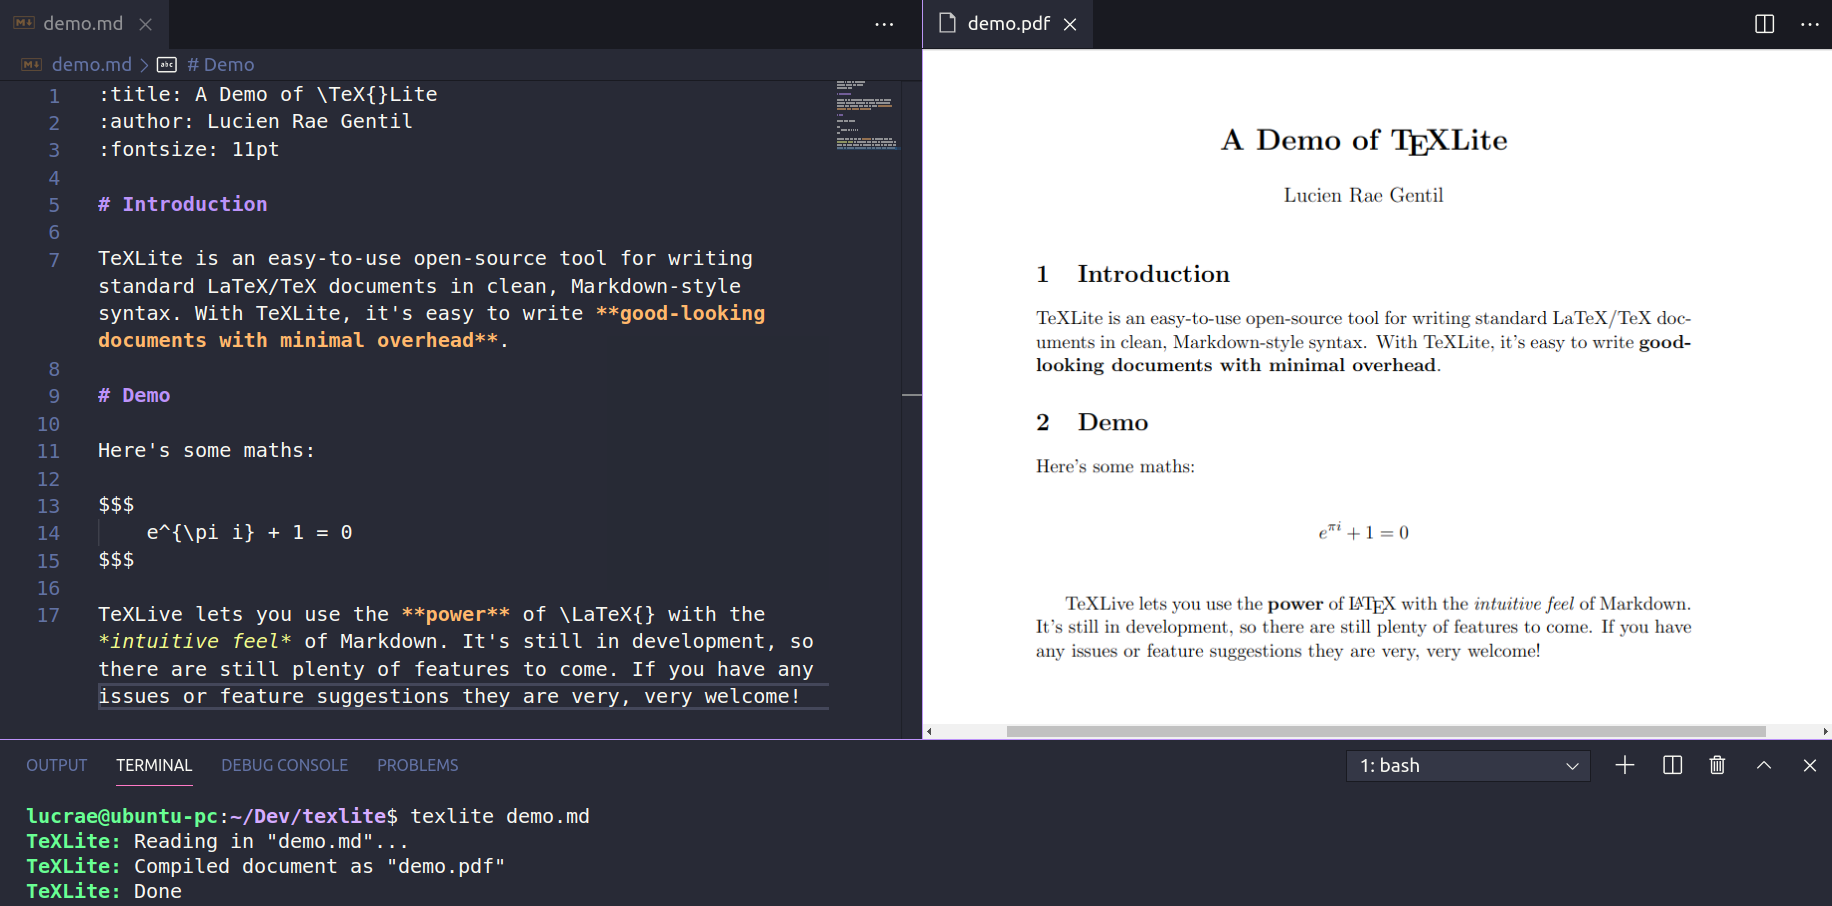
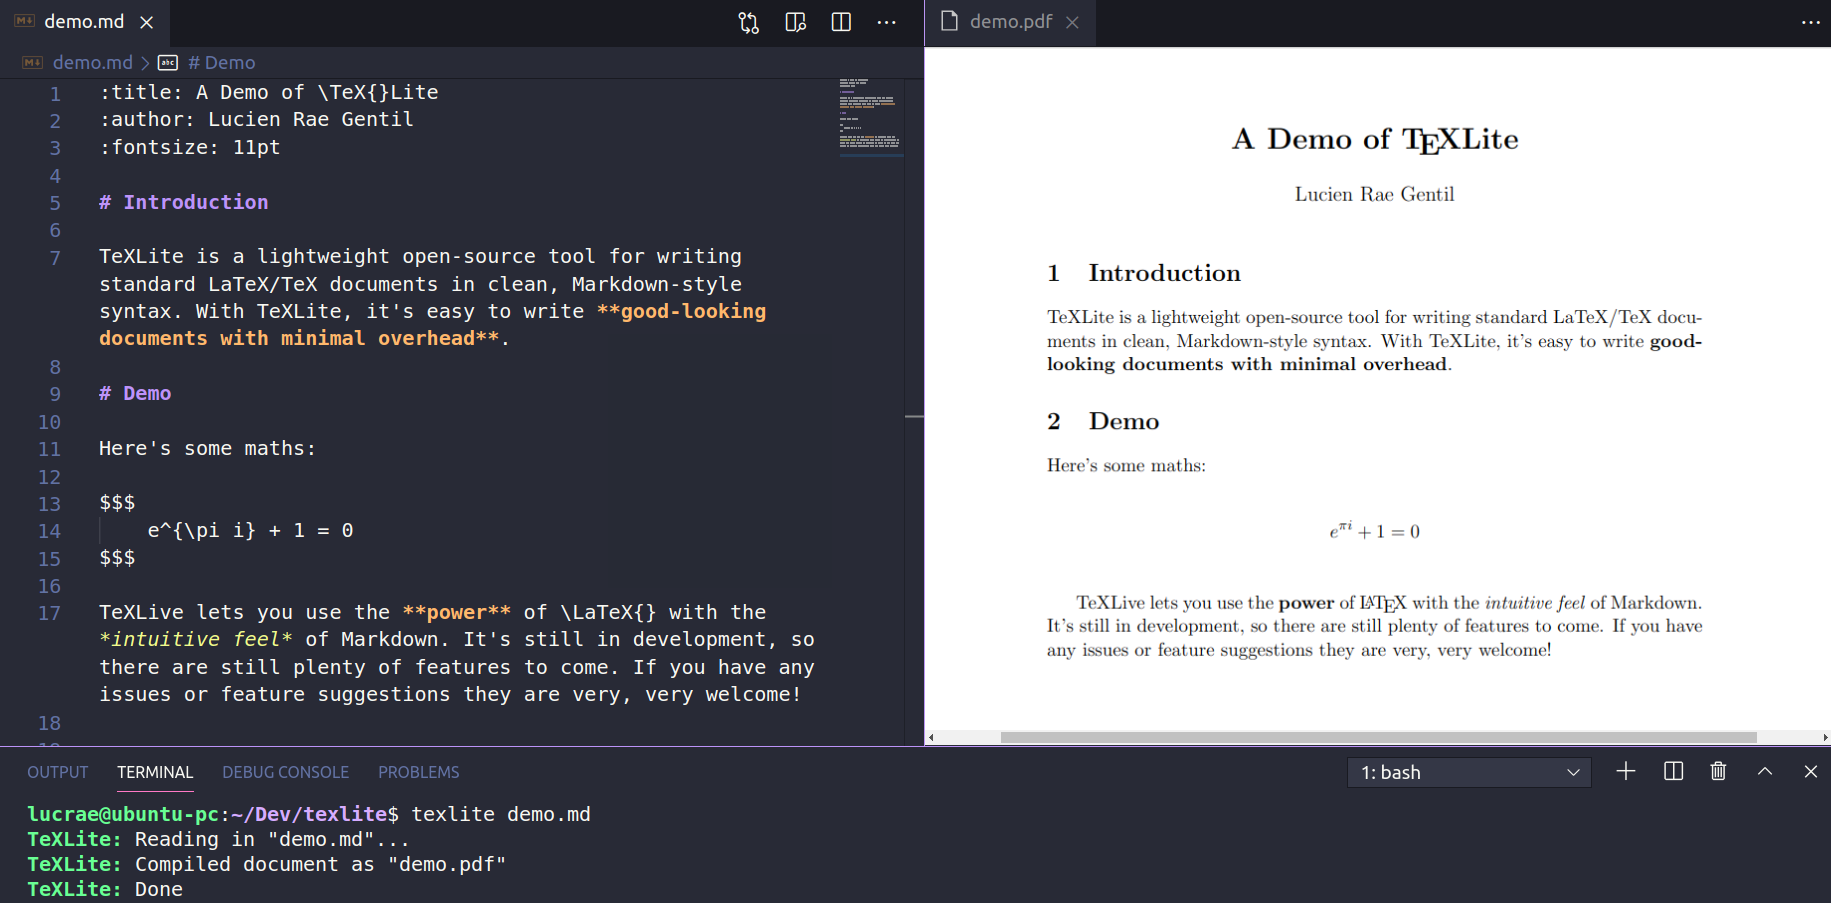
Change 'easy-to-use' to 'lightweight' in description

diff --git a/texlite/_version.py b/texlite/_version.py
@@ -1,5 +1,5 @@
 __version__ = '1.0.4'
 description = (
-    'An easy-to-use open-source tool for writing standard LaTeX/TeX documents '
+    'A lightweight open-source tool for writing standard LaTeX/TeX documents '
     'in clean, Markdown-style syntax.'
 )

diff --git a/README.md b/README.md
@@ -4,14 +4,14 @@
 
 [![PyPI version](https://badge.fury.io/py/texlite.svg)](https://badge.fury.io/py/texlite) ![Ubuntu](https://github.com/lucrae/texlite/workflows/Ubuntu/badge.svg) ![macOS](https://github.com/lucrae/texlite/workflows/macOS/badge.svg)
 
-TeXLite is an easy-to-use open-source tool for writing standard LaTeX/TeX documents in clean, Markdown-style syntax. With TeXLite, it's easy to write **good-looking documents with minimal overhead**.
+TeXLite is a lightweight open-source tool for writing standard LaTeX/TeX documents in clean, Markdown-style syntax. With TeXLite, it's easy to write **good-looking documents with minimal overhead**.
 
 <p align="center">
   <img width="100%" src="docs/images/demo.png" />
   <p align="center"><i>A demo of writing a simple document in an editor and compiling it to a PDF with TeXLite</i></p>
 </p>
 
-# Install
+# Installing
 
 **STEP 1**: Install and upgrade with [pip](https://pip.pypa.io/en/stable/quickstart/).
 
@@ -34,8 +34,10 @@ Use `texlite --help` for options and information. If you have any issues install
 
 ## Installation Fixes
 
+If you're having issues with installing TeXLite, here are some fixes to possible problems:
+
 - If `pip install texlite` is not working, you may be using Python 2.7, which has reached its end of life. Use `pip3 install --upgrade pip` and then `pip3 install texlite` to ensure that you are using Python 3.
 
 - If *TeX Live* is installed and working but the document TeX cannot be compiled, it may because of missing plugins. You can ensure your *TeX Live* has all the plugins with `sudo apt-get install texlive-full`.
 
-- When first running *MikTeX* on Windows, you may still need to install LaTeX packages. To easily install all that are missing, run `texlite` and wait for a prompt. To make this quicker, select the "
+- When first running *MikTeX* on Windows, you may still need to install LaTeX packages. To easily install all that are missing, run `texlite` and wait for a prompt. In the prompt there's a checkbox to do this automatically, which may require you to wait but then it should fix your problems.

diff --git a/examples/demo.md b/examples/demo.md
@@ -4,7 +4,7 @@
 
 # Introduction
 
-TeXLite is an easy-to-use open-source tool for writing standard LaTeX/TeX documents in clean, Markdown-style syntax. With TeXLite, it's easy to write **good-looking documents with minimal overhead**.
+TeXLite is a lightweight open-source tool for writing standard LaTeX/TeX documents in clean, Markdown-style syntax. With TeXLite, it's easy to write **good-looking documents with minimal overhead**.
 
 # Demo
 
@@ -15,3 +15,5 @@ $$$
 $$$
 
 TeXLive lets you use the **power** of \LaTeX{} with the *intuitive feel* of Markdown. It's still in development, so there are still plenty of features to come. If you have any issues or feature suggestions they are very, very welcome!
+
+

diff --git a/docs/DESCRIPTION.md b/docs/DESCRIPTION.md
@@ -1,1 +1,1 @@
-TeXLite is an easy-to-use open-source tool for writing standard LaTeX/TeX documents in clean, Markdown-style syntax. With TeXLite, it's easy to write **good-looking documents with minimal overhead**.
+TeXLite is a lightweight open-source tool for writing standard LaTeX/TeX documents in clean, Markdown-style syntax. With TeXLite, it's easy to write **good-looking documents with minimal overhead**.
